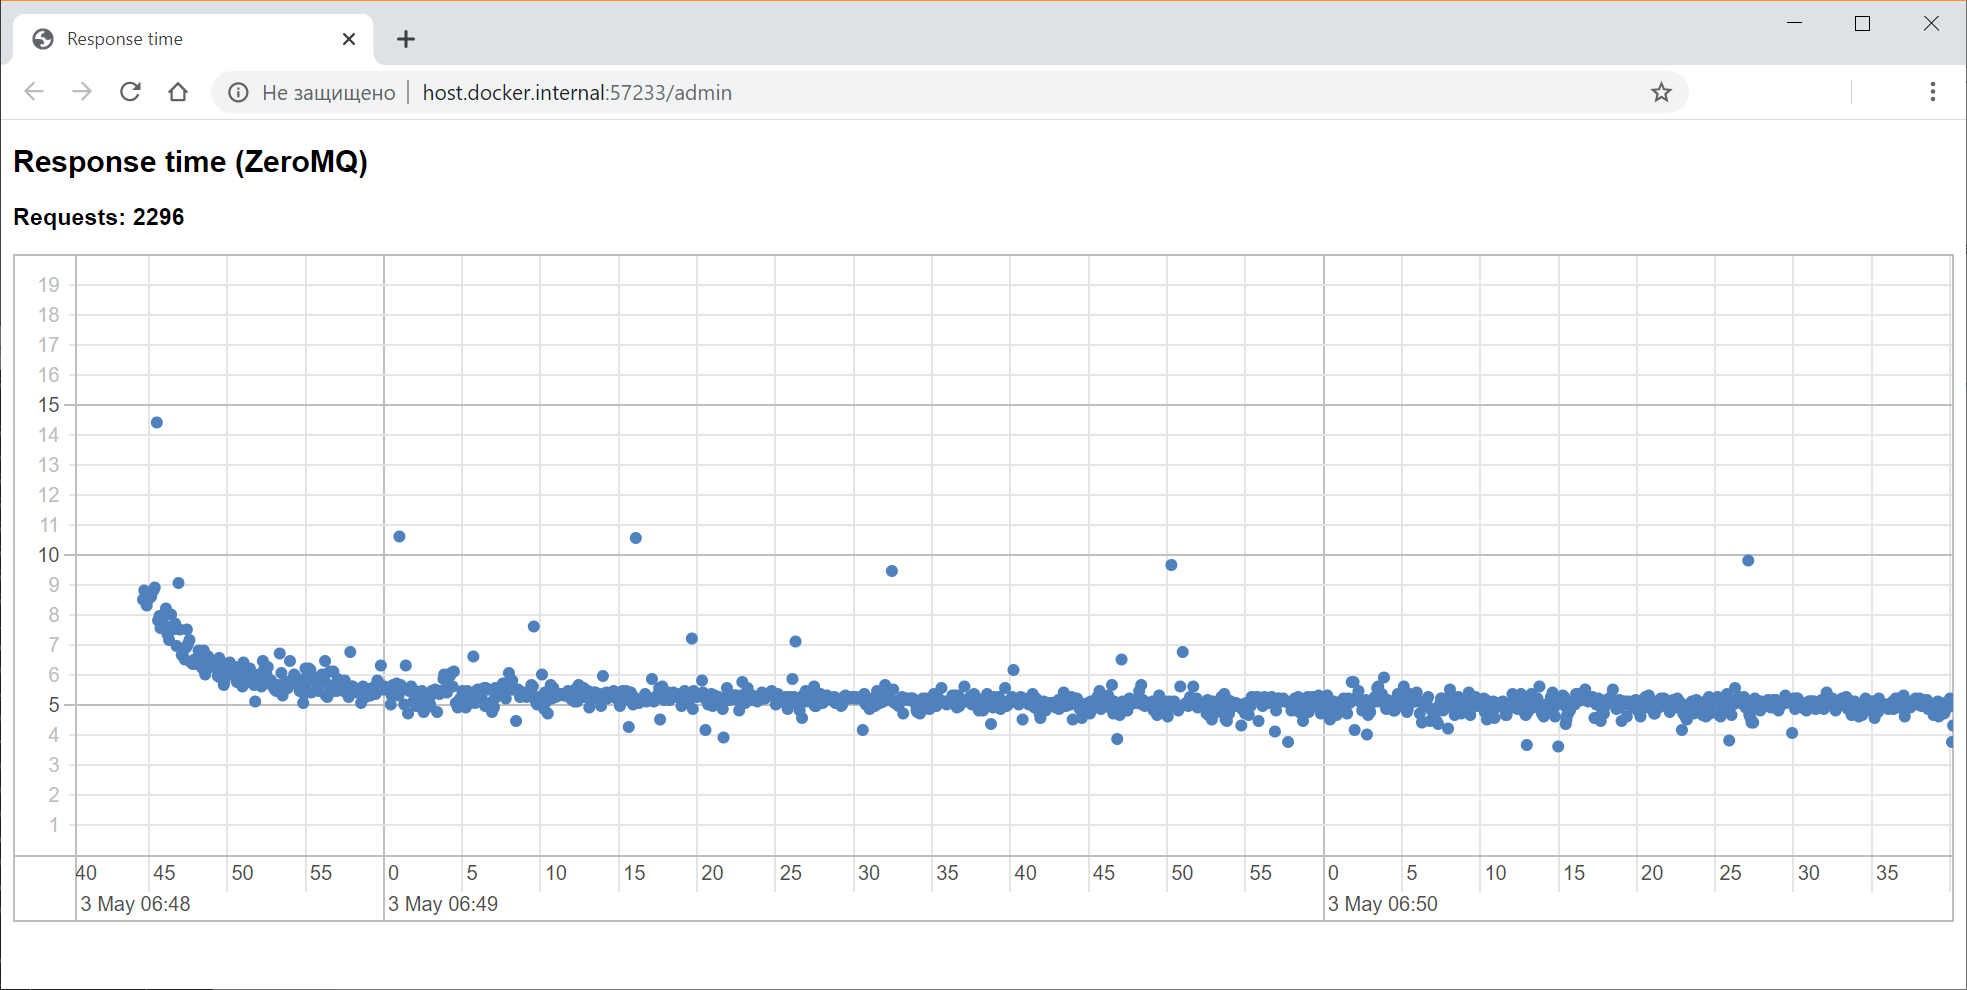
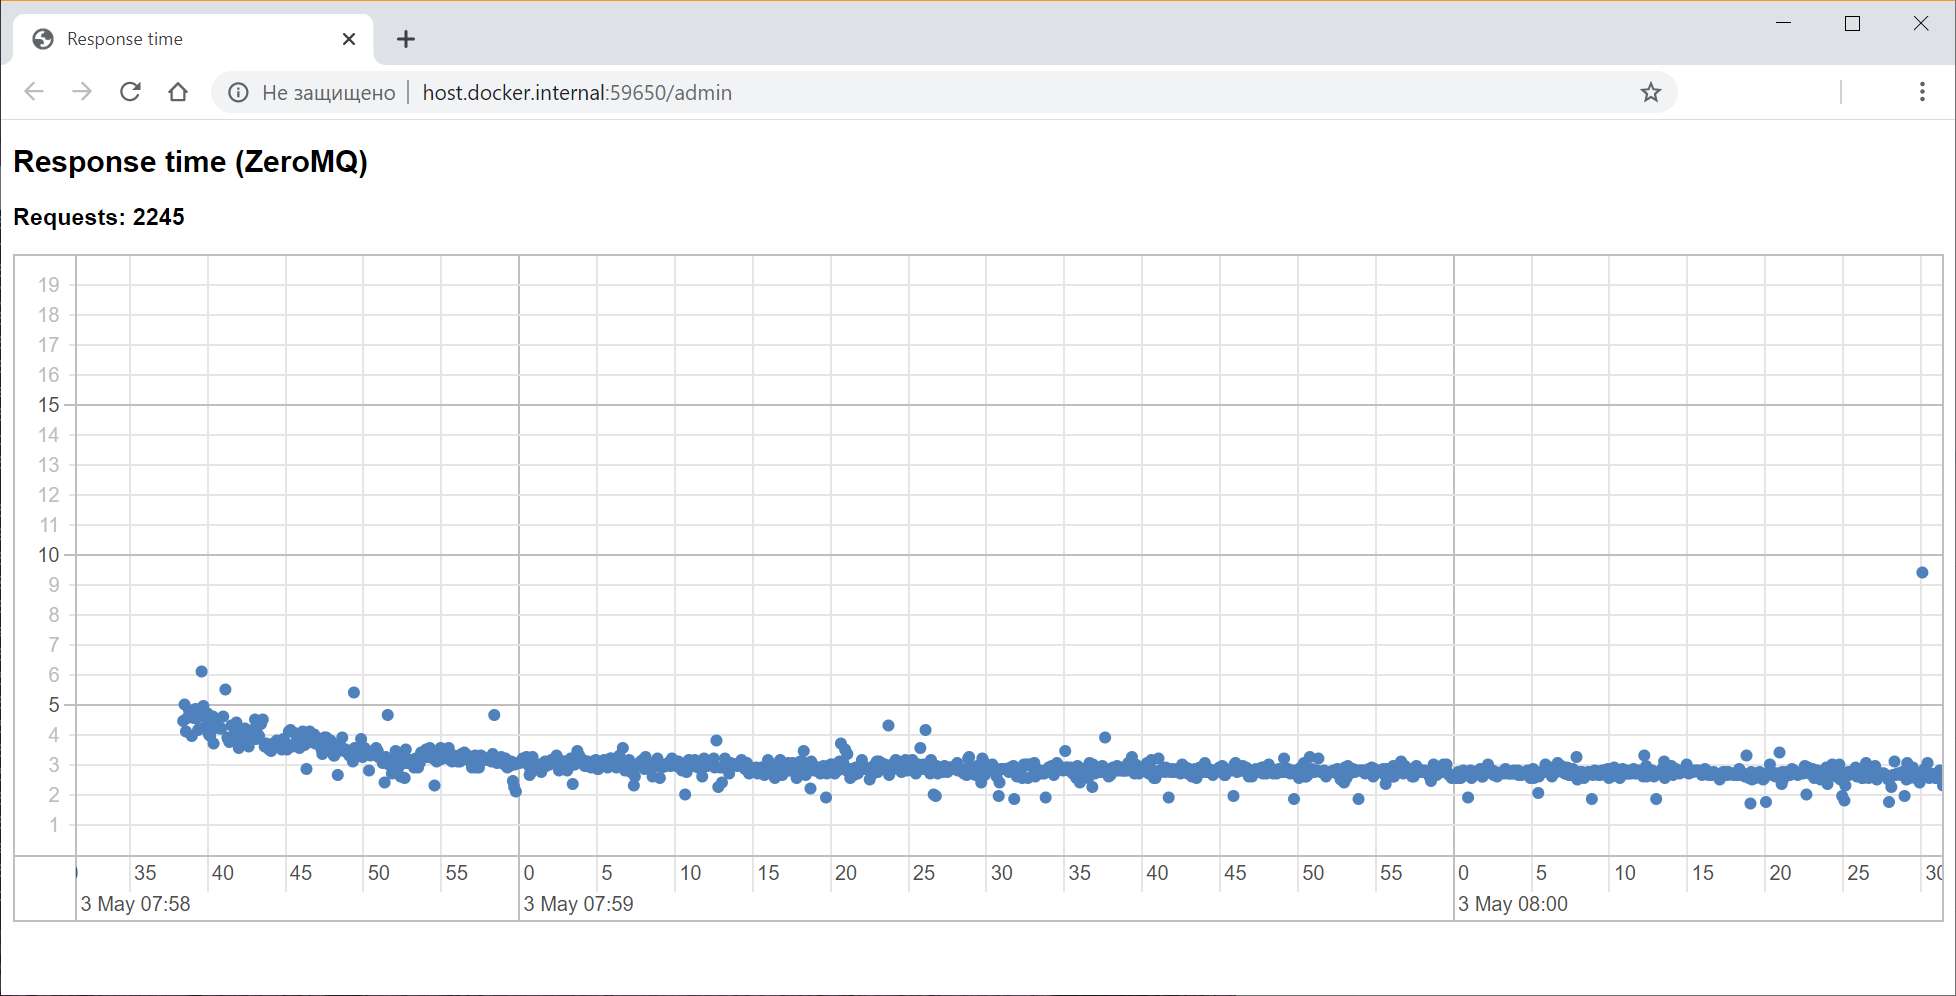
Refactoring

diff --git a/src/main/java/com/transport/lib/zeromq/ZeroMqRequestSender.java b/src/main/java/com/transport/lib/zeromq/ZeroMqRequestSender.java
@@ -10,25 +10,25 @@ import org.zeromq.ZMQ;
 @Slf4j
 public class ZeroMqRequestSender extends Sender {
 
+    public static final ZMQ.Context context = ZMQ.context(10);
+
     @Override
     public byte[] executeSync(byte[] message) {
         long start = System.currentTimeMillis();
-        // New ZeroMQ context with 1 thread
-        ZMQ.Context context = ZMQ.context(1);
         // Open socket
-        ZMQ.Socket socket = context.socket(SocketType.REQ);
-        // Get target server host:port
-        socket.connect("tcp://" + Utils.getHostForService(command.getServiceClass(), moduleId, Protocol.ZMQ));
-        // Send Command to server
-        socket.send(message, 0);
-        // Set timeout if provided
-        if (timeout != -1) {
-            socket.setReceiveTimeOut((int) timeout);
+        byte[] response;
+        try(ZMQ.Socket socket = context.socket(SocketType.REQ)) {
+            // Get target server host:port
+            socket.connect("tcp://" + Utils.getHostForService(command.getServiceClass(), moduleId, Protocol.ZMQ));
+            // Send Command to server
+            socket.send(message, 0);
+            // Set timeout if provided
+            if (timeout != -1) {
+                socket.setReceiveTimeOut((int) timeout);
+            }
+            // Wait for answer from server
+            response = socket.recv(0);
         }
-        // Wait for answer from server
-        byte[] response = socket.recv(0);
-        // Close socket and context
-        Utils.closeSocketAndContext(socket, context);
         log.info(">>>>>> Executed sync request {} in {} ms", command.getRqUid(), System.currentTimeMillis() - start);
         return response;
     }
@@ -37,16 +37,15 @@ public class ZeroMqRequestSender extends Sender {
     public void executeAsync(byte[] message) {
         long start = System.currentTimeMillis();
         // New ZeroMQ context with 1 thread
-        ZMQ.Context context = ZMQ.context(1);
         // Open socket
-        ZMQ.Socket socket = context.socket(SocketType.REQ);
-        // Get target server host:port
-        socket.connect("tcp://" + Utils.getHostForService(command.getServiceClass(), moduleId, Protocol.ZMQ));
-        // Send Command to server
-        socket.send(message, 0);
-        // Wait for "OK" message from server that means request was received and correctly deserialized
-        socket.recv(0);
-        Utils.closeSocketAndContext(socket, context);
+        try (ZMQ.Socket socket = context.socket(SocketType.REQ)) {
+            // Get target server host:port
+            socket.connect("tcp://" + Utils.getHostForService(command.getServiceClass(), moduleId, Protocol.ZMQ));
+            // Send Command to server
+            socket.send(message, 0);
+            // Wait for "OK" message from server that means request was received and correctly deserialized
+            socket.recv(0);
+        }
         log.info(">>>>>> Executed async request {} in {} ms", command.getRqUid(), System.currentTimeMillis() - start);
     }
 }

diff --git a/src/main/java/com/transport/lib/zeromq/receivers/ZMQAsyncAndSyncRequestReceiver.java b/src/main/java/com/transport/lib/zeromq/receivers/ZMQAsyncAndSyncRequestReceiver.java
@@ -39,7 +39,7 @@ public class ZMQAsyncAndSyncRequestReceiver implements Runnable, Closeable {
     public void run() {
 
         try {
-            context = ZMQ.context(1);
+            context = ZMQ.context(10);
             socket = context.socket(SocketType.REP);
             socket.bind("tcp://" + Utils.getZeroMQBindAddress());
         } catch (UnknownHostException zmqStartupException) {
@@ -77,12 +77,11 @@ public class ZMQAsyncAndSyncRequestReceiver implements Runnable, Closeable {
                             kryo.writeObject(output, constructCallbackContainer(command, result));
                             output.close();
                             // Connect to client
-                            ZMQ.Context contextAsync = ZMQ.context(1);
-                            ZMQ.Socket socketAsync = contextAsync.socket(SocketType.REQ);
+                            ZMQ.Socket socketAsync = context.socket(SocketType.REQ);
                             socketAsync.connect("tcp://" + command.getCallBackZMQ());
                             // And send response
                             socketAsync.send(bOutput.toByteArray());
-                            Utils.closeSocketAndContext(socketAsync, contextAsync);
+                            socketAsync.close();
                         } catch (ClassNotFoundException | NoSuchMethodException e) {
                             log.error("Error while receiving async request");
                             throw new TransportExecutionException(e);

diff --git a/src/main/java/com/transport/lib/TransportService.java b/src/main/java/com/transport/lib/TransportService.java
@@ -19,6 +19,7 @@ import com.transport.lib.kafka.receivers.KafkaReceiver;
 import com.transport.lib.kafka.receivers.KafkaSyncRequestReceiver;
 import com.transport.lib.spring.ClientEndpoints;
 import com.transport.lib.spring.ServerEndpoints;
+import com.transport.lib.zeromq.ZeroMqRequestSender;
 import com.transport.lib.zeromq.receivers.ZMQAsyncAndSyncRequestReceiver;
 import com.transport.lib.zeromq.receivers.ZMQAsyncResponseReceiver;
 import com.transport.lib.zookeeper.Utils;
@@ -34,6 +35,7 @@ import org.apache.kafka.common.utils.Time;
 import org.apache.zookeeper.KeeperException;
 import org.json.simple.parser.ParseException;
 import org.springframework.beans.factory.annotation.Autowired;
+import org.zeromq.ZMQ;
 
 import javax.annotation.PostConstruct;
 import java.io.Closeable;
@@ -447,6 +449,14 @@ public class TransportService {
                 throw new TransportSystemException(e);
             }
         });
+
+        ZMQ.Context context = ZeroMqRequestSender.context;
+        if (!context.isClosed()) {
+            context.close();
+            if (!context.isTerminated())
+                context.term();
+        }
+
         log.info("All ZMQ sockets were closed");
         // Kill all threads
         for (Thread thread : this.receiverThreads) {

diff --git a/src/main/java/com/transport/lib/zeromq/receivers/ZMQAsyncResponseReceiver.java b/src/main/java/com/transport/lib/zeromq/receivers/ZMQAsyncResponseReceiver.java
@@ -34,7 +34,7 @@ public class ZMQAsyncResponseReceiver implements Runnable, Closeable {
     @Override
     public void run() {
         try {
-            context = ZMQ.context(1);
+            context = ZMQ.context(10);
             socket = context.socket(SocketType.REP);
             socket.bind("tcp://" + Utils.getZeroMQCallbackBindAddress());
         } catch (UnknownHostException zmqStartupException) {
